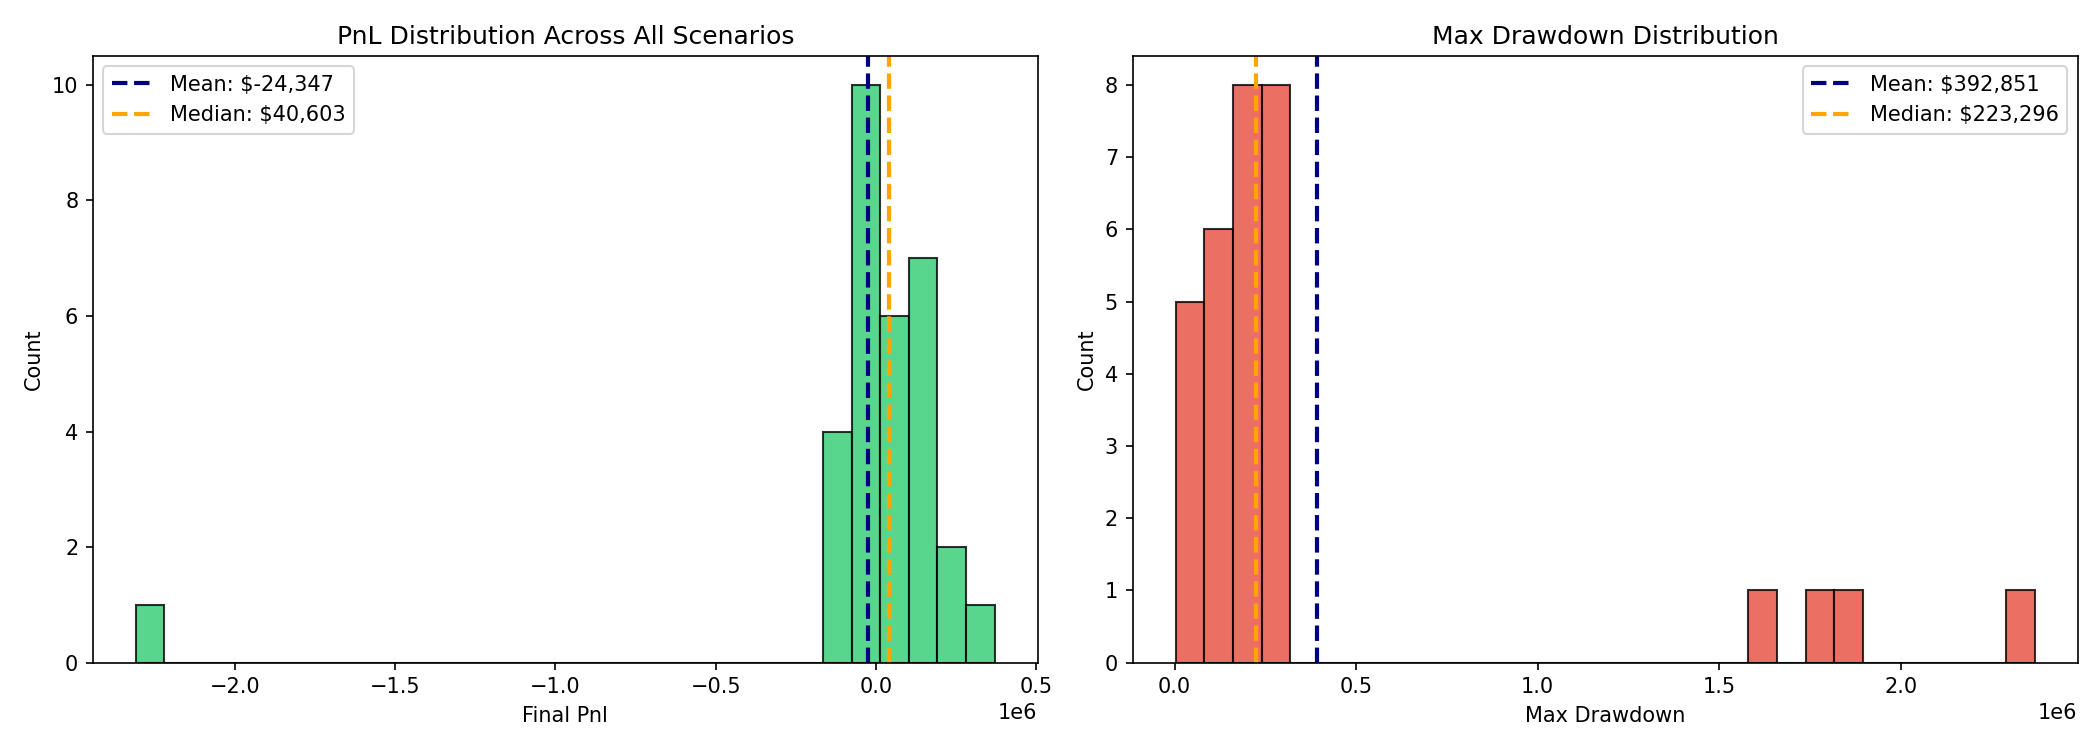
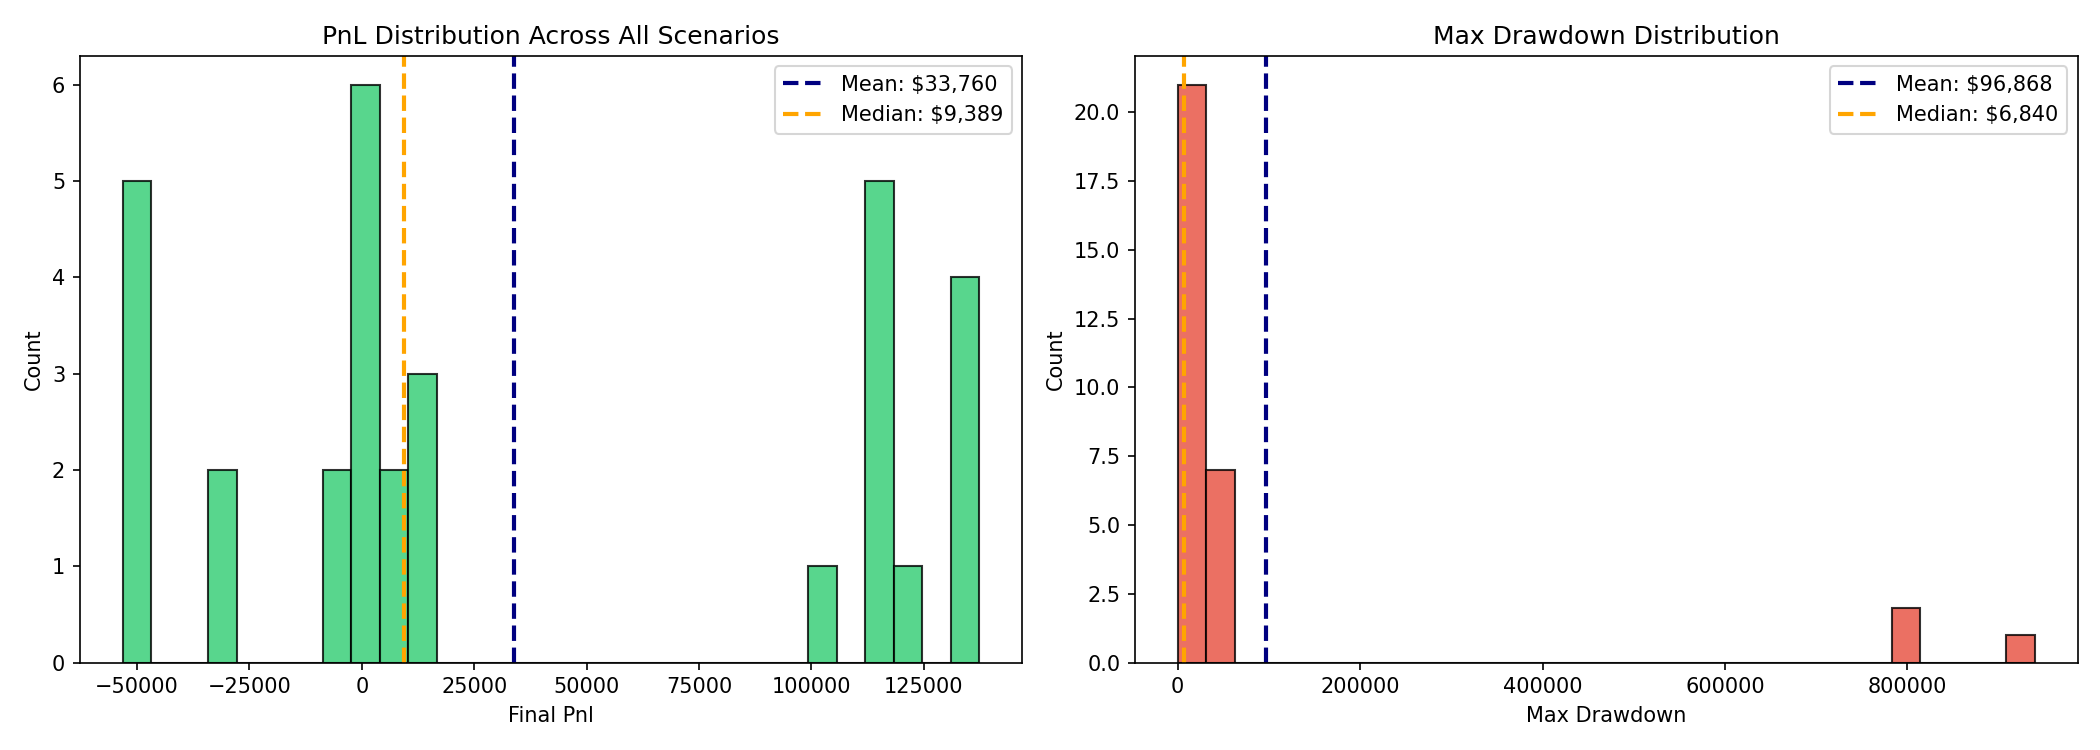
fix: resolve merge conflicts in dashboard.py and update tab structure for performance metrics display

diff --git a/ROUND 1/tools/dashboard.py b/ROUND 1/tools/dashboard.py
@@ -613,7 +613,6 @@ def main():
     # --- MAIN CONTENT ---
     st.title("📈 Prosperity 4: Operations Console")
 
-<<<<<<< Updated upstream
     tab_backtest, tab_forge, tab_advanced, tab_ai, tab_performance, tab_external, tab_robust = st.tabs([
         "📉 Visual Backtester",
         "🛠️ One-Click Forge",
@@ -622,10 +621,6 @@ def main():
         "📊 Performance Scatter",
         "🌐 Market Data (AV)",
         "🛡️ Robust Analysis",
-=======
-    tab_backtest, tab_ai, tab_performance, tab_external = st.tabs([
-        "📉 Visual Backtester", "🧠 AI Optimizer", "📊 Performance Matrix", "🌐 Market Data (AV)"
->>>>>>> Stashed changes
     ])
 
     with tab_ai:
@@ -717,21 +712,6 @@ def main():
             for trader_file in trader_files:
                 trader_id = trader_file.replace(".py", "")
                 csv_path = os.path.join(results_dir, f"{trader_id}_mc_results.csv")
-<<<<<<< Updated upstream
-                if os.path.exists(csv_path):
-                    try:
-                        df_mc = pd.read_csv(csv_path)
-                        if not df_mc.empty:
-                            avg_pnl = df_mc['final_pnl'].mean()
-                            var_pnl = df_mc['final_pnl'].var()
-                            if pd.isna(var_pnl): var_pnl = 0
-                            robust_file = os.path.join(results_dir, f"{trader_id}_robustness_results.json")
-                            external_stability = "N/A"
-                            if os.path.exists(robust_file):
-                                with open(robust_file, "r") as rf:
-                                    robust_data = json.load(rf)
-                                    external_stability = np.mean([r['final_pnl'] for r in robust_data])
-=======
                 hist_path = os.path.join(results_dir, f"{trader_id}_historical_results.json")
                 
                 if os.path.exists(csv_path):
@@ -753,7 +733,6 @@ def main():
                             with open(robust_file, "r") as rf:
                                 robust_data = json.load(rf)
                                 external_stability = np.mean([r['final_pnl'] for r in robust_data])
->>>>>>> Stashed changes
 
                             results.append({
                                 "trader_id": trader_id,
@@ -803,13 +782,7 @@ def main():
             )
 
             st.altair_chart(scatter + labels, use_container_width=True)
-<<<<<<< Updated upstream
-
-            st.dataframe(df_perf_display.sort_values("Avg PnL (↑ Higher is Better)", ascending=False))
-=======
-            
             st.dataframe(df_perf_display.sort_values("Expected (MC PnL) ↑", ascending=False))
->>>>>>> Stashed changes
         else:
             st.info("No simulation results found in `results/`. Run Historical Audit to generate data.")
 